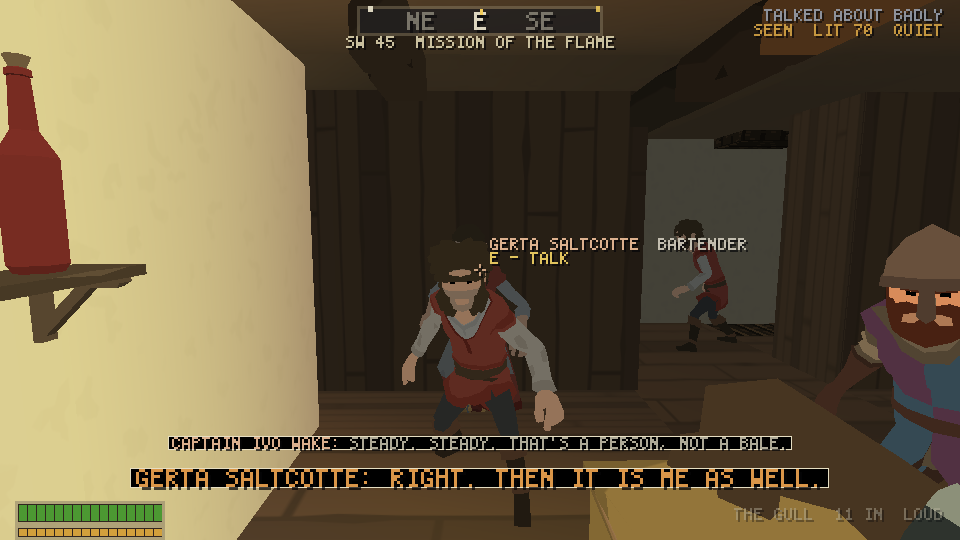
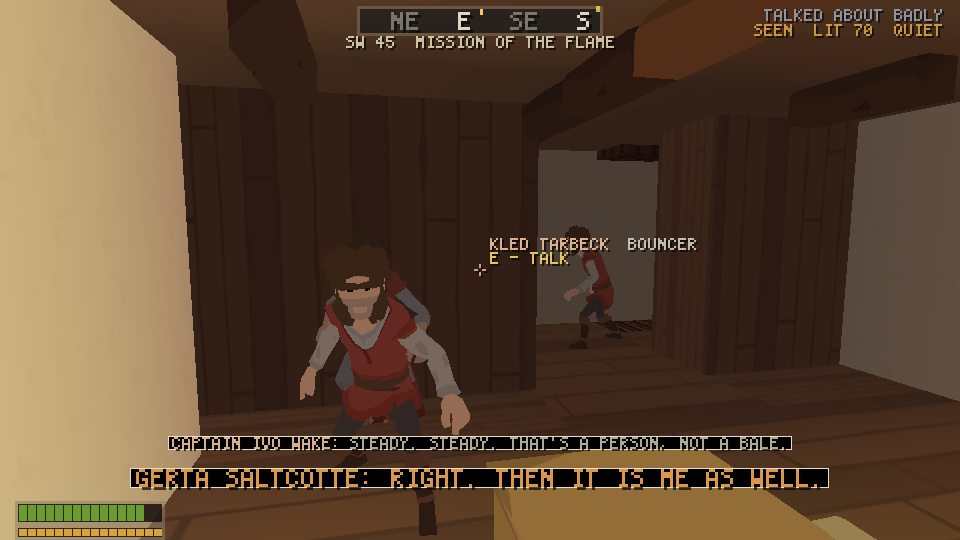
wip(voice): the six frames reshot off the gated c2f2e7e9 exe -- the label is off every speaker's face, three serfs clear of it in the overheard shot, and the react doorway empty of the body that was crossing it
The README's honest bound carries the third round: what the plate
collision was and why the prompt's own rule is not this lane's to
change, the ninety steps the react shutter now waits, and the three the
critic named that belong to other systems -- Cull rigged by ROLE (the
3D lane's; it moves the scene hash), the overheard pair not facing each
other (a hashed population move, the ward hold's shape), and FISTS UP
losing its slot to a full band (the UI-EA priority argument).

diff --git a/docs/frames/voice/README.md b/docs/frames/voice/README.md
@@ -1,7 +1,7 @@
 # The street talks
 
 Every frame in here is the real `dist\granadad.exe` on the gated Windows build (branch
-`lane/voice`, commit `becfb333`, with wip's street senses, kit and pull pack merged under it),
+`lane/voice`, commit `c2f2e7e9`, with wip's street senses, kit and pull pack merged under it),
 playing the voice channel through the real verbs. Nothing is staged. Each run prints a summary
 line next to the picture (`voice end=... beats=n/N ... key=... speaker="..." row="..."
 inview=yes|no off=Ndeg apart=T.T`) and the exact line that shot each frame is in the table. A run
@@ -9,7 +9,9 @@ that fell short says so and can't pass as one that didn't. The last three are th
 proof: `inview` says the body the frame is about was inside the field of view at the shutter,
 with a clear lens line to it and nobody drawn in the way; `off` is how far from the middle of
 the frame it sat, in degrees, because ninety degrees of view is wide enough to hide a man at its
-edge in; `apart` is how far away it was, in tiles. The suite pins all three.
+edge in; `apart` is how far away it was, in tiles. The suite pins all three -- including a
+FLOOR under `off`, because dead centre is where the crosshair's own name plate is drawn and a
+body put there wears it.
 
 You said it on the 10th. "I'd expect the watch and crowd to react appropriately to the violence
 they're witnessing." And the Oblivion thing where talking to somebody feels like talking to a
@@ -208,6 +210,47 @@ buys and talks and never swings -- hashes byte for byte as it did, and the taver
 unmoved (`0x63F354D02A6B600F`, twin-run, re-read on the gated exe). `test_street_voice.cpp` pins
 both halves: a witness to a landed blow ends up facing the player, and the memory says `Struck`.
 
+**And the third round, which was one defect in three frames and three things that are not this
+lane's.** The critic's own first question of any frame -- can I tell who is talking -- and half
+the set failed it.
+
+THE PLATE WAS ON THE FACE. The crosshair's name plate is drawn at the middle of the frame and
+runs to the right of it, so a body composed DEAD CENTRE wears it: `pass`, `react` and
+`overheard` all had "<SOMEBODY> SERF / E - TALK" printed across the speaker's eyes and mouth,
+and because the prompt names the nearest body in REACH rather than the one you are looking at,
+two of them named somebody else while doing it. The prompt's rule is not this lane's to change
+(every verb in the game reads it, and a look-based prompt is the crosshair's own pass), but
+where this lane stands its camera is: every composed look now puts its subject a sixth of the
+frame off centre -- twelve degrees at ninety of view, the thirds a photographer would use --
+and the plate lands on the wall behind them. The overheard shot carries half the angle the pair
+opens plus a body's width beside it, because a pair on the street is rarely just a pair and the
+third serf who stopped to listen wore the label. `off` has a floor in the suite now as well as
+a ceiling: a frame that drifts back to centre goes red.
+
+AND THE ROOM GETS A SECOND AND A HALF. `react` fired the shutter the step the row landed and
+caught a bouncer crossing the lens half in frame, his head wider at that range than the
+witness's. The same beat ninety steps on is the same line with the doorway clear -- the row
+holds four seconds at the least -- so the drive waits and re-aims before the shutter.
+
+Three the critic named that this lane is NOT the place to fix, said plainly rather than
+quietly left:
+
+- **WATCHMAN CULL IS DRAWN AS A DRINKER.** In the reveal he wears a red tunic and no helmet,
+  and the crosshair calls him `WATCHMAN CULL  PATRON`, because the Gull's roster gives him the
+  PATRON role (he is off shift with a drink in his hand -- `tickWatch`'s own words) and
+  `figureForRole` picks the rig off the role. It is the right fiction and the wrong read for
+  the one frame that exists to be a reveal. Fixing it means rigging by JOB FAMILY rather than
+  role, which moves the scene hash and every 3D frame in the repo: the 3D lane's, declared here.
+- **THE OVERHEARD PAIR DO NOT FACE EACH OTHER.** The emitter names both halves now and the
+  camera walks to see both, but nothing turns them: two bodies standing together talking is a
+  `WardPopulation` behaviour and a hashed one, so it is the same declared population move as
+  the ward hold below.
+- **FISTS UP CAN BE DROPPED AT 960x540.** With the alert row and the voice row both up, the
+  bottom band runs out of slots before the stance row, and the band's own rule is that a row
+  which cannot reach the play space does not get one. The priority order is the UI-EA spec's
+  argument (an event outranks a state, and a raised fist is also visible in the hand), so
+  re-ordering it is that spec's pass and not this lane's.
+
 One of the seven endings is NOT composed this way and says so: `--voice=hold` (the address's own
 proof -- the Gull man you talk to holds where the talk found him for ten seconds) still stands back
 through `standBackFrom`, which asks the SIM's line of sight for its spot and can leave another
@@ -239,10 +282,12 @@ a farewell table, the back key says one, and walking off throws one after you. T
 to in the Gull holds still. The worded reaction is never a number. Two pass lines are never closer
 than the cooldown. All seven `--voice=` endings land every beat they owe, AND THE FRAME IS OF THE
 SPEAKER: at the shutter of every composed ending the body the frame is about is in the field of
-view with a clear lens line and nobody drawn in the way (`inview=yes`), and in the MIDDLE of it
-and not at its edge -- eight degrees off at the most for the five composed shots, fifteen for the
-overheard pair (the look is at their midpoint), and between ten and twenty-five for the watch
-reveal, which stands Cull clear of the drawn blade on purpose. The farewell and moved stands sit a
+view with a clear lens line and nobody drawn in the way (`inview=yes`), and OFF THE PLATE but
+inside the frame -- at least a tenth of the frame off centre so the crosshair's own label does
+not land on the speaker's face, and at most a third of it so nobody is heading for the edge
+(further out again for the overheard group, which has to clear three bodies, and between ten and
+twenty-five degrees for the watch reveal, which stands Cull clear of the drawn blade on purpose).
+The farewell and moved stands sit a
 diagonal off at the least (never the tile beside) and the talk reach at the most; the watch
 reveal's stand is three tiles from Cull's stool at the least. The lens's line and the sim's
 are held against each other on the table at (151,69). A placed body leaves the street's last
